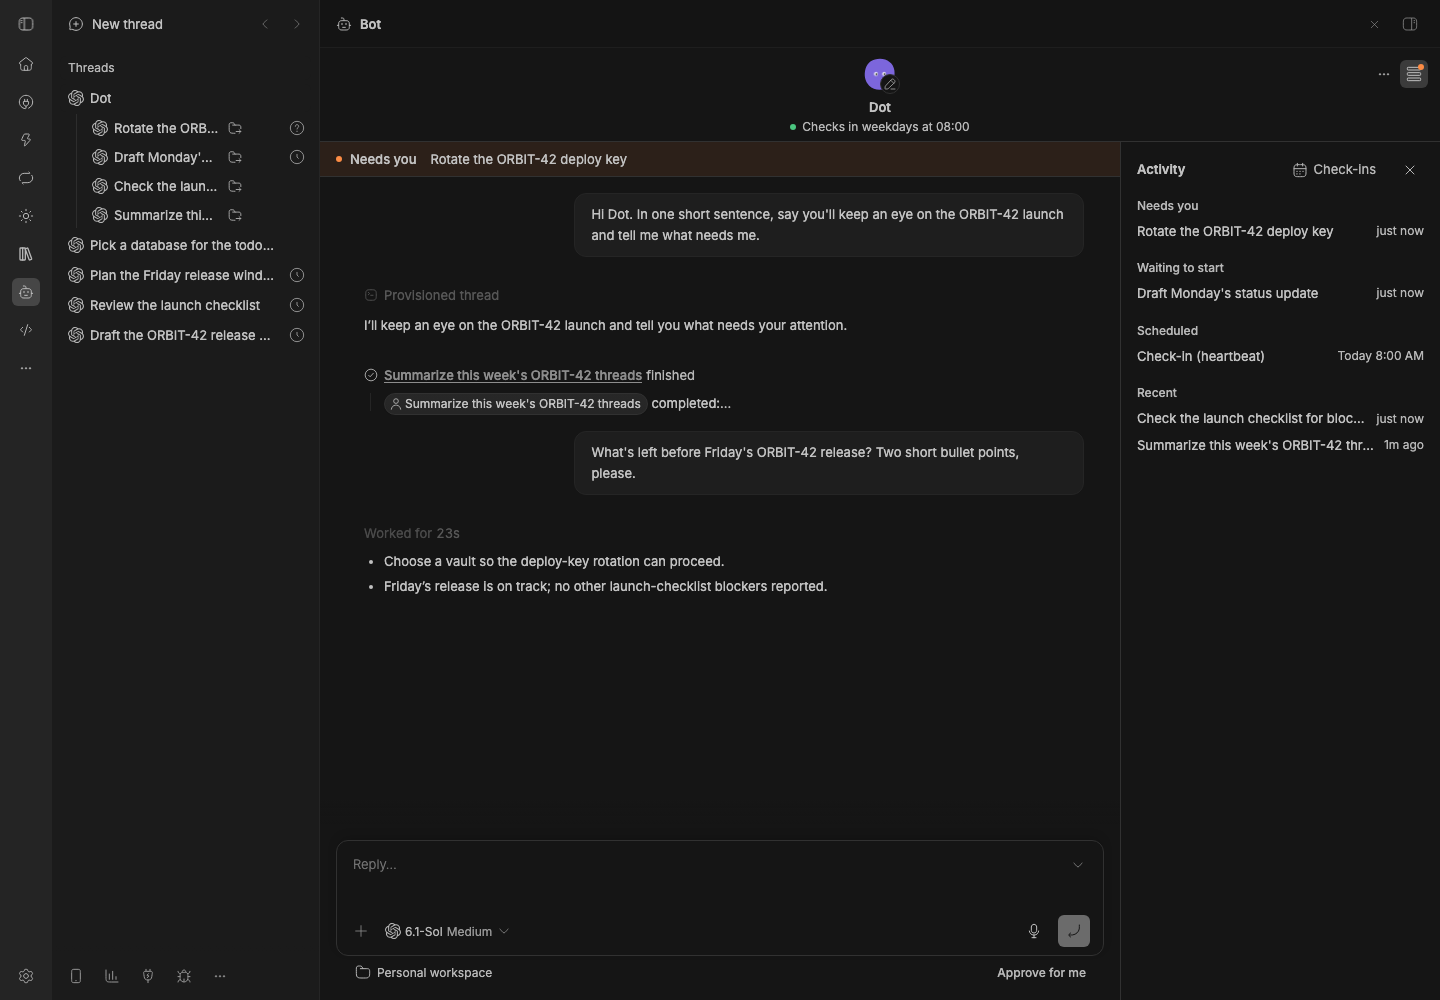
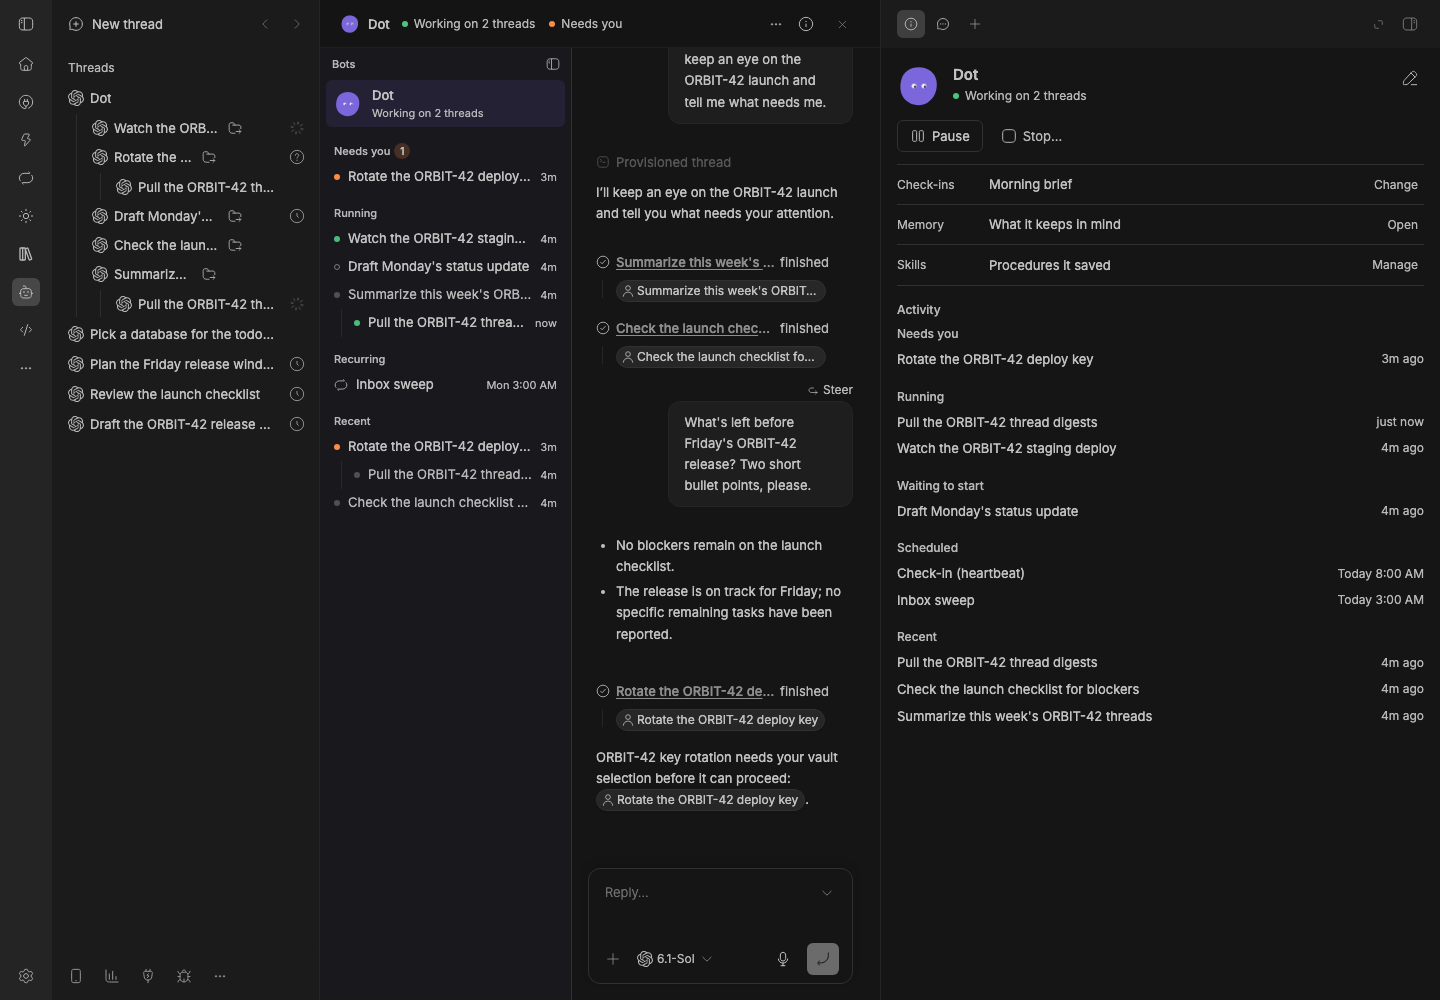
Bot workspace: README and captures (sidebar + Info, two sub-threads in Threads); a waiting thread isn't repeated in the trees

diff --git a/packages/bb-studio/src/ui/bot/workspace.ts b/packages/bb-studio/src/ui/bot/workspace.ts
@@ -139,7 +139,8 @@ export interface SidebarGroups {
 /**
  * Groups the Bot's threads for its sidebar. Needs you is flat (each one is a
  * thing to do); Running and Recent are trees, a thread under the thread that
- * started it at any depth, placed by its root.
+ * started it at any depth, placed by its root. A childless thread that
+ * needs the user is only under Needs you.
  */
 export function sidebarGroups(activity: BotActivityView | null | undefined): SidebarGroups {
   if (!activity) return { needsYou: [], running: [], recurring: [], recent: [] };
@@ -161,7 +162,8 @@ export function sidebarGroups(activity: BotActivityView | null | undefined): Sid
     return { thread, children: kids.map((kid) => build(kid, seen)) };
   };
   const hasBusy = (node: TreeNode): boolean => busy.has(node.thread.id) || node.children.some(hasBusy);
-  const roots = (children.get(null) ?? []).sort(newest).map((thread) => build(thread, new Set()));
+  // A thread waiting on the user is already under Needs you; it stays in a tree only to hold its children.
+  const roots = (children.get(null) ?? []).sort(newest).map((thread) => build(thread, new Set())).filter((node) => !node.thread.needsYou || node.children.length);
   return {
     needsYou: started(activity.needsYou),
     running: roots.filter(hasBusy),

diff --git a/packages/bb-studio/src/ui/bot/workspace.test.ts b/packages/bb-studio/src/ui/bot/workspace.test.ts
@@ -59,6 +59,12 @@ test("sidebar groups: Needs you flat; trees placed by their root; grandchildren 
   expect(sidebarGroups(null)).toEqual({ needsYou: [], running: [], recurring: [], recent: [] });
 });
 
+test("a thread that needs the user isn't repeated in the trees unless it holds children", () => {
+  const groups = sidebarGroups(view({ needsYou: [t("ask", { needsYou: true }), t("parent", { needsYou: true })], completed: [t("kid", { parentId: "parent" })] }));
+  expect(groups.needsYou.map((each) => each.id)).toEqual(["ask", "parent"]);
+  expect(groups.recent.map((node) => node.thread.id)).toEqual(["parent"]);
+});
+
 test("a parent cycle can't loop the tree", () => {
   const groups = sidebarGroups(view({ completed: [t("a", { parentId: "b" }), t("b", { parentId: "a" }), t("c")] }));
   expect(groups.recent.map((node) => node.thread.id)).toEqual(["c"]);

diff --git a/packages/bb-studio/src/ui/bot/BotSidebar.tsx b/packages/bb-studio/src/ui/bot/BotSidebar.tsx
@@ -82,7 +82,7 @@ export function BotSidebar({ bot, status, working, activity, earlier, onOpen }: 
   const [strip] = useStrip(bot.id);
   const groups = sidebarGroups(activity);
   const color = bot.color ?? colorForName(bot.name);
-  const surface = { "--bot-accent": color, background: `color-mix(in oklab, ${color} 4%, transparent)` } as CSSProperties;
+  const surface = { "--bot-accent": color, background: `color-mix(in oklab, ${color} 6%, transparent)` } as CSSProperties;
   const toggle = (id: string) => setLayout({ closed: layout.closed.includes(id) ? layout.closed.filter((each) => each !== id) : [...layout.closed, id] });
   const active = strip.active;
 

diff --git a/packages/bb-studio/README.md b/packages/bb-studio/README.md
@@ -923,8 +923,9 @@ open in the background, so it's as you left it when you come back.
   by tag (or Untagged) from the tag menu, and click a chip to filter by it.
   The tag menu also renames and deletes the active tag.
 - **Bot.** Your always-on agent (it replaces the Chief of Staff): a name, a
-  drawn avatar, and a page of its own (the **Bot** rail item) that is its
-  chat, with **Needs you** and **Activity** a click away. See [Bot](#bot).
+  drawn avatar, and a workspace of its own (the **Bot** rail item): its
+  chat, a sidebar of the threads it started, and Info and Threads tabs in
+  the right panel. See [Bot](#bot).
 - **Project leads.** A BB project can have a lead thread, which a
   Heartbeat wakes on a schedule; the personal project's lead is your Bot.
   Set them in Setup under **Project leads**. BB's own sidebar groups
@@ -970,7 +971,9 @@ bb studio reindex
 
 ## Bot
 
-![The Bot's page in a staged BB: Dot's avatar, name and status in a compact header; below it BB's own thread view of its chat, the same as any thread, with a Needs-you banner for a thread it started and Activity open beside the chat with Needs you, Waiting to start, Scheduled and Recent](assets/bot.png)
+![The Bot's workspace in a staged BB: Dot's avatar, name and status in the title bar; on the left its sidebar, tinted in Dot's color, with Dot on top and the threads it started under Needs you, Running, Recurring (an Inbox sweep automation) and Recent, a follow-up nested under the thread that started it; BB's own thread view of its chat in the middle; and the right panel's Info tab with its profile, Pause and Stop, Check-ins (Morning brief), Memory, Skills and Activity](assets/bot.png)
+
+![The same workspace with two sub-threads opened from the sidebar in the right panel's Threads tab: a strip of two tabs over BB's thread view of the deploy-key thread, whose question waits on the user](assets/bot-threads.png)
 
 ![No Bot yet: the page greets you as one, with Plan my week, What needs me today?, Set up a morning brief and Customize me, and a message box; the first message makes it](assets/bot-create.png)
 
@@ -978,13 +981,34 @@ The Bot is your always-on agent, modelled on ChatGPT's dots. It replaced
 the Chief of Staff: an existing Chief of Staff became the Bot, named "Chief
 of Staff", with the same thread and check-ins; rename it from its page.
 
-- **Page**: its own nav panel, **Bot** in the rail (`/plugins/studio/bot`;
-  the old `/plugins/studio/studio/bot` redirects there). The page is its
-  chat: BB's own thread view (below). On top, a compact centered header: its
-  avatar (the pencil opens **Edit profile**), name, and live status
-  (Working on N threads, Checks in …, Idle, Paused, Stopped). Top right: ⋯
-  (Edit profile, Memory, Skills, Check-ins, Open as thread, Pause / Resume,
-  Stop…) and the Activity button.
+- **Workspace**: its own nav panel, **Bot** in the rail (`/plugins/studio/bot`;
+  the old `/plugins/studio/studio/bot` redirects there). Its main thread
+  always fills the page (below). The panel's title bar has its avatar and
+  name (**Edit profile**), live status (Working on N threads, Checks in …,
+  Idle, Paused, Stopped), a quiet **Needs you** marker when a thread it
+  started waits on you, ⋯ (Edit profile, Memory, Skills, Check-ins, Open as
+  thread, Pause / Resume, Stop…) and **Info**.
+- **Sidebar**: a column inside the page, tinted in the Bot's color: the Bot
+  on top (always selected; its thread is the page), then the threads it
+  started: **Needs you**, **Running** (a thread that is running or queued,
+  or has one below it), **Recurring** (automations that wake it, other than
+  its check-in), **Recent**, and **Earlier conversations** (its handoff
+  chain, closed by default). A thread another of its threads started nests
+  under that one, at any depth (`bot_activity` returns each thread's
+  `parentId`). A row opens the thread in the right panel's **Threads** tab;
+  the page stays put. Drag its edge to resize; hide it to a slim rail. Width,
+  hidden groups and collapse are remembered on this device. BB's own sidebar
+  stays as it is: the plugin SDK can't hide it.
+- **Right panel**: two fixed tabs beside BB's Browser and Terminal.
+  **Info** is the Bot's profile, Pause / Resume and Stop, Check-ins, Memory,
+  Skills and Activity: **Needs you**, **Running**, **Waiting to start**,
+  **Scheduled** (its check-in and automations, with the next run) and
+  **Recent** (the last three, then Show all). **Threads** holds every
+  sub-thread you opened as a strip of tabs over BB's thread view: click to
+  switch, × or middle-click to close, drag to reorder, ↗ to open it as a
+  BB thread. The strip is saved per Bot on this device (at most 12; the
+  oldest one not showing closes first). With the panel split, both panes
+  share one strip. If the host can't open the tab, the thread opens in BB.
 - **Edit profile**: a drawn avatar (one of nine shapes with two eyes, in one
   of twelve colors, or **Match the name**), its name, and a Description: a
   sentence or two on its role ("You are my chief of staff."), which it's
@@ -992,12 +1016,9 @@ of Staff", with the same thread and check-ins; rename it from its page.
   its emoji until you pick a shape; the emoji stays for older clients.
 - **Chat**: BB's `ThreadChat` for the Bot's current thread, filling the
   page, so it looks and works exactly like any thread: the same timeline,
-  composer, queued messages, questions and approvals inline. When the Bot
-  has handed off, **Earlier conversation** above the chat opens the thread
-  before (`bot_chain`, which the iOS app also reads for its history).
-- **Needs you**: a banner under the header, only when a thread the Bot
-  started waits on you; it lists them and opens one in a click. The Bot's
-  own questions show inline in the chat, so they aren't repeated.
+  composer, queued messages, questions and approvals inline. Threads it
+  handed off from are under **Earlier conversations** in its sidebar
+  (`bot_chain`, which the iOS app also reads for its history).
 - **Quiet**: the Bot is told its chat is your inbox. With nothing new (a
   check-in with nothing to report, a notice that a thread it started
   finished fine, an automation result like `[PASS]`) it finishes without a
@@ -1009,12 +1030,6 @@ of Staff", with the same thread and check-ins; rename it from its page.
   chips: **Plan my week**, **What needs me today?** (both send), **Set up a
   morning brief** (the Morning brief preset) and **Customize me** (Edit
   profile).
-- **Activity**: a side panel (closed by default; remembered per device)
-  that pushes the chat over, with **Check-ins** and the sections that have
-  something: **Needs you**, **Running**, **Waiting to start**, **Scheduled**
-  (its check-in and any automation that wakes its thread, with the next
-  run) and **Recent** (threads it started that finished; the last three,
-  then Show all). With nothing in any, one quiet line.
 - **Check-ins**: four presets, one click each: **Morning brief** (weekdays
   8:00), **Evening wrap-up** (weekdays 18:00), **Every 2 hours while I'm
   working** (weekdays 9–17) and **Off**. A preset sets the schedule and adds

diff --git a/docs/project-leads.md b/docs/project-leads.md
@@ -41,7 +41,8 @@ A migration made an existing Chief of Staff the Bot, named "Chief of
 Staff", with the same thread and Heartbeat. `chief_of_staff`,
 `chief_of_staff_set` and `chief_of_staff_set_run` are deprecated aliases of
 `bot_get`, `bot_set_thread` and `bot_set_run` for one release. See the
-Studio README's **Bot** section for pause, stop and Activity.
+Studio README's **Bot** section for its workspace (sidebar, Info and
+Threads tabs), pause and stop.
 
 ## RPCs
 
